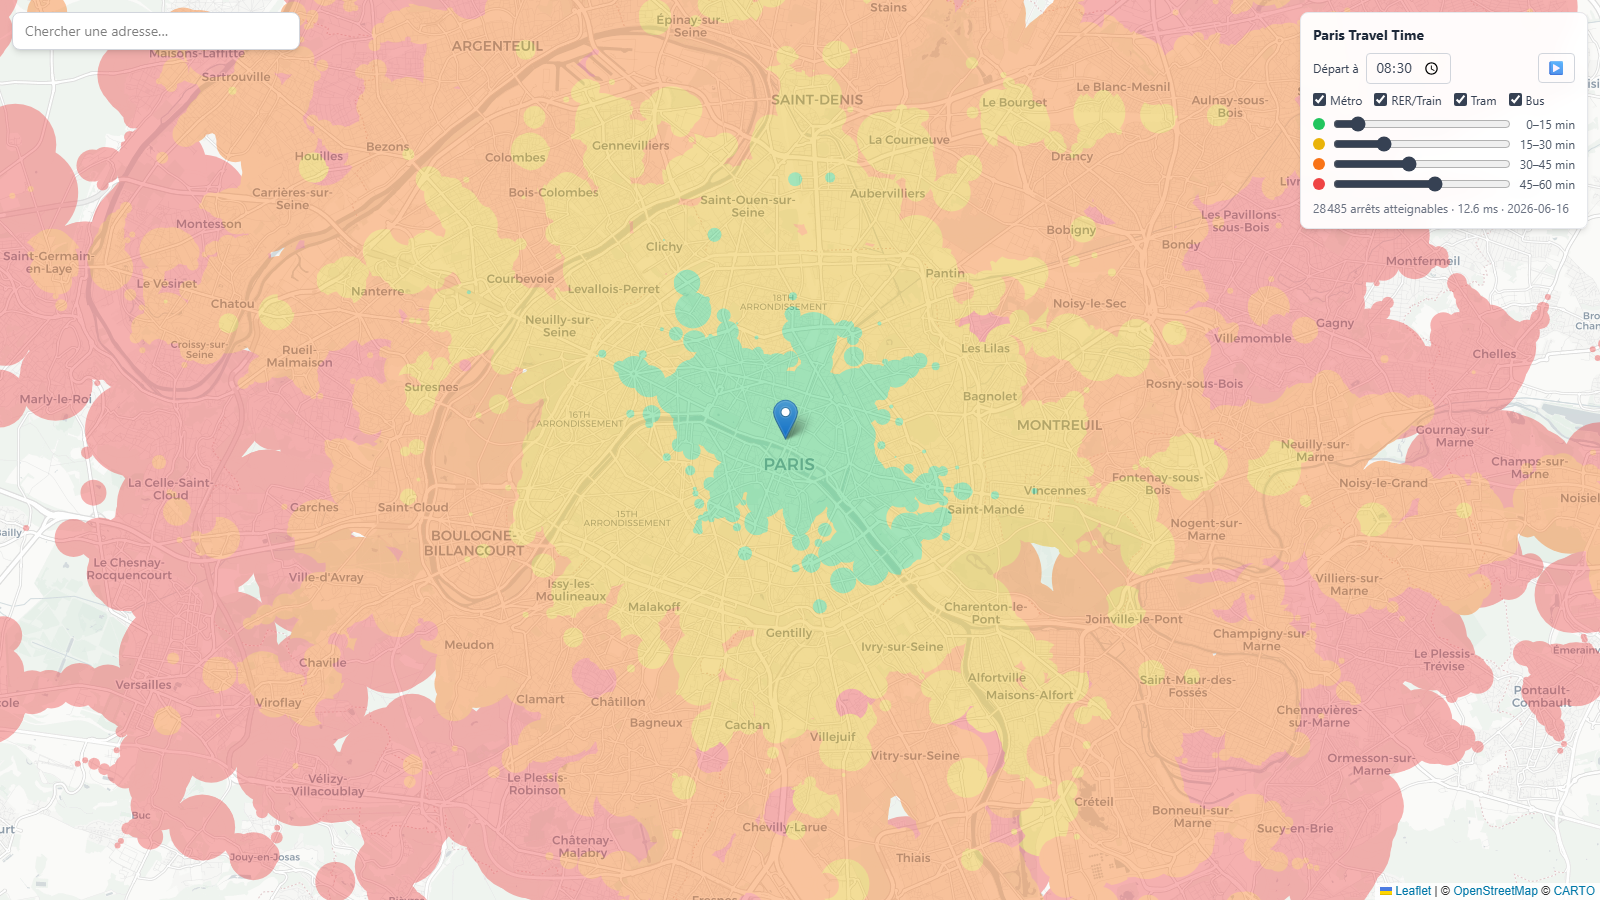
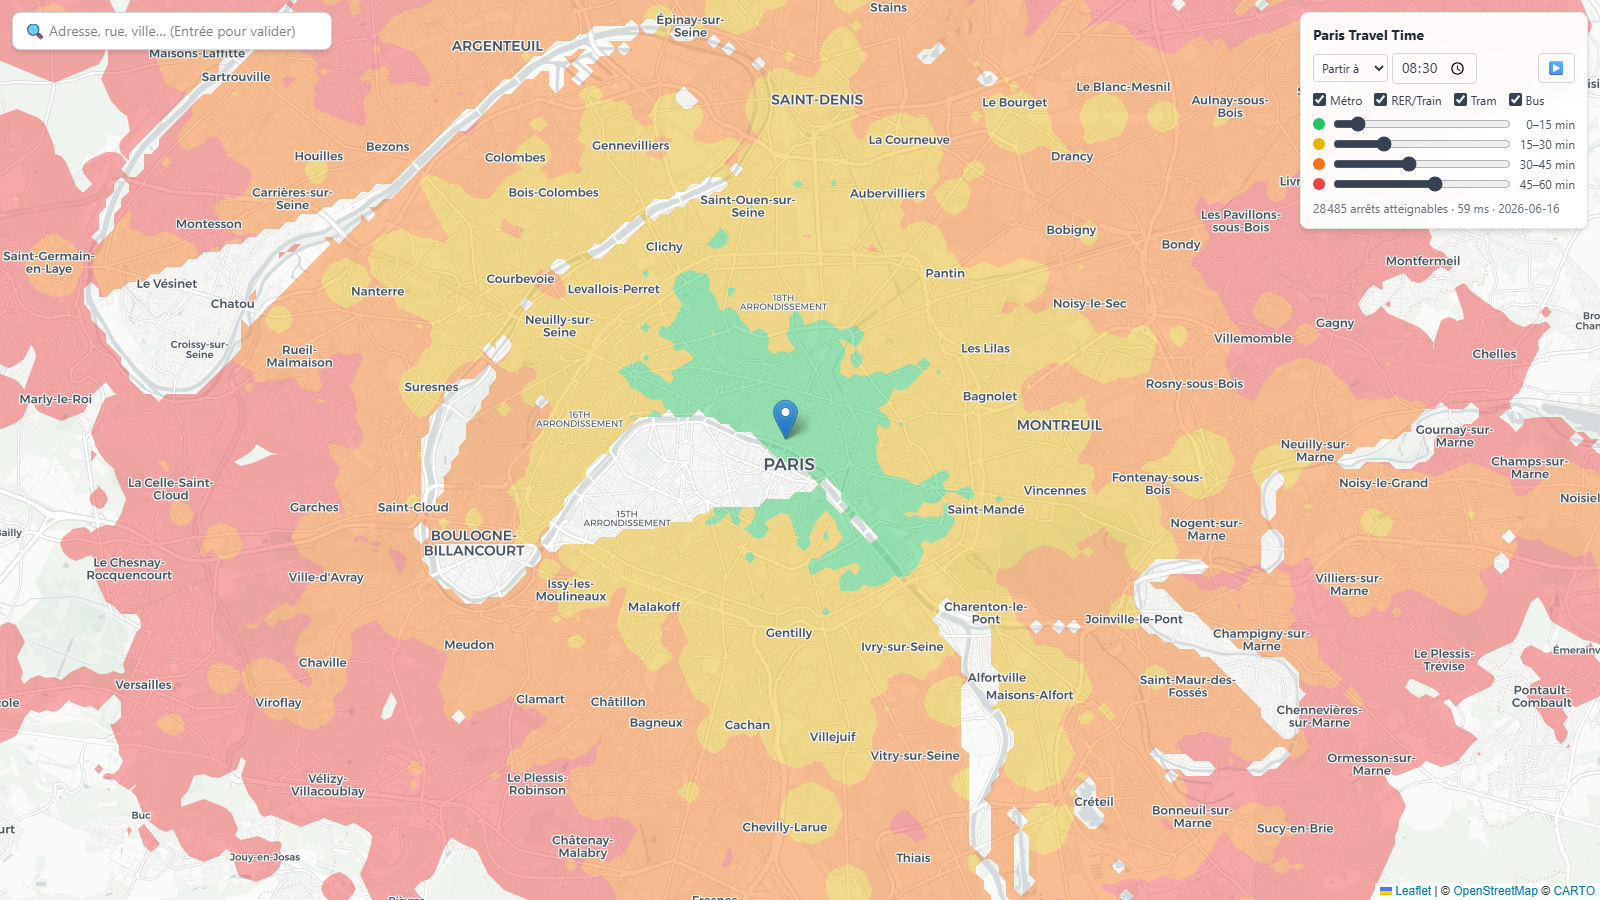
Refine the walkability rendering: water-only 30 m mask, labels above bands
The 60 m mask blocked landuse=railway, whose untagged street crossings
produced incomprehensible holes in dense areas: the mask is now water
only, at 30 m, with pedestrian tunnels carved alongside bridges and every
GTFS stop cell guaranteed walkable. Viewport sampling switched from
center-point (speckle at low zoom) to box-average via a summed-area
table, threshold 50%. The remaining 'random holes' turned out to be the
base map's gray building blocks showing through the translucent bands:
the base is now label-free with a separate label tile pane rendered above
the isochrones.

diff --git a/frontend/src/components/IsochronesLayer.tsx b/frontend/src/components/IsochronesLayer.tsx
@@ -46,7 +46,8 @@ export default function IsochronesLayer({
   useEffect(() => {
     if (!paneReady.current) {
       const pane = map.createPane('heatmap')
-      pane.style.opacity = '0.4'
+      pane.style.opacity = '0.45'
+      pane.style.zIndex = '350' // above base tiles, below the labels pane
       pane.style.pointerEvents = 'none'
       paneReady.current = true
     }
@@ -74,7 +75,14 @@ export default function IsochronesLayer({
   return null
 }
 
-/** Sample the walkability mask (bilinear-free nearest lookup) for a grid. */
+/**
+ * Sample the walkability mask for a viewport grid.
+ *
+ * A cell is blocked when LESS THAN HALF of its footprint is walkable
+ * (box average via the summed-area table). Center-point sampling caused
+ * speckle at low zoom: a pond under the cell center blocked a whole
+ * 300 m cell while its twin neighbour stayed open.
+ */
 function blockedForGrid(
   wm: Walkmask,
   W: number,
@@ -85,15 +93,26 @@ function blockedForGrid(
   mPerDegLon: number,
 ): Uint8Array {
   const blocked = new Uint8Array(W * H) // 0 = walkable
+  const w1 = wm.w + 1
+  const maskCellLat = (wm.north - wm.south) / wm.h
+  const maskCellLon = (wm.east - wm.west) / wm.w
+  const halfLat = Math.max(((cellM / 2) * 1) / M_PER_DEG_LAT, maskCellLat / 2)
+  const halfLon = Math.max(cellM / 2 / mPerDegLon, maskCellLon / 2)
   for (let y = 0; y < H; y++) {
     const lat = north - ((y + 0.5) * cellM) / M_PER_DEG_LAT
     if (lat < wm.south || lat > wm.north) continue // outside mask: walkable
-    const my = Math.min(wm.h - 1, Math.floor(((wm.north - lat) / (wm.north - wm.south)) * wm.h))
+    const my0 = Math.max(0, Math.floor(((wm.north - (lat + halfLat)) / (wm.north - wm.south)) * wm.h))
+    const my1 = Math.min(wm.h, Math.ceil(((wm.north - (lat - halfLat)) / (wm.north - wm.south)) * wm.h))
     for (let x = 0; x < W; x++) {
       const lon = west + ((x + 0.5) * cellM) / mPerDegLon
       if (lon < wm.west || lon > wm.east) continue
-      const mx = Math.min(wm.w - 1, Math.floor(((lon - wm.west) / (wm.east - wm.west)) * wm.w))
-      if (!wm.data[my * wm.w + mx]) blocked[y * W + x] = 1
+      const mx0 = Math.max(0, Math.floor(((lon - halfLon - wm.west) / (wm.east - wm.west)) * wm.w))
+      const mx1 = Math.min(wm.w, Math.ceil(((lon + halfLon - wm.west) / (wm.east - wm.west)) * wm.w))
+      const area = (my1 - my0) * (mx1 - mx0)
+      if (area <= 0) continue
+      const walkable =
+        wm.sat[my1 * w1 + mx1] - wm.sat[my0 * w1 + mx1] - wm.sat[my1 * w1 + mx0] + wm.sat[my0 * w1 + mx0]
+      if (walkable * 2 < area) blocked[y * W + x] = 1
     }
   }
   return blocked

diff --git a/frontend/src/lib/api.ts b/frontend/src/lib/api.ts
@@ -18,7 +18,18 @@ export async function fetchWalkmask(): Promise<Walkmask | null> {
   const n = j.w * j.h
   const data = new Uint8Array(n)
   for (let i = 0; i < n; i++) data[i] = (bytes[i >> 3] >> (7 - (i & 7))) & 1
-  return { w: j.w, h: j.h, south: j.south, west: j.west, north: j.north, east: j.east, data }
+  // summed-area table: walkable-fraction of any rectangle in O(1), used to
+  // sample the mask without aliasing when viewport cells are coarser
+  const w1 = j.w + 1
+  const sat = new Uint32Array(w1 * (j.h + 1))
+  for (let y = 0; y < j.h; y++) {
+    let row = 0
+    for (let x = 0; x < j.w; x++) {
+      row += data[y * j.w + x]
+      sat[(y + 1) * w1 + (x + 1)] = sat[y * w1 + (x + 1)] + row
+    }
+  }
+  return { w: j.w, h: j.h, south: j.south, west: j.west, north: j.north, east: j.east, data, sat }
 }
 
 export async function fetchStops(): Promise<StopsCatalog> {

diff --git a/frontend/src/components/MapView.tsx b/frontend/src/components/MapView.tsx
@@ -1,4 +1,4 @@
-import { MapContainer, TileLayer, useMapEvents } from 'react-leaflet'
+import { MapContainer, Pane, TileLayer, useMapEvents } from 'react-leaflet'
 import type { ReactNode } from 'react'
 import type { LatLng } from '../lib/types'
 
@@ -49,10 +49,16 @@ export default function MapView({
       className="h-full w-full"
       zoomControl={false}
     >
+      {/* base WITHOUT labels: building texture stays under the bands, while
+          street/place names render in a pane ABOVE them (crisp and readable,
+          and gray blocks no longer read as fake holes through the colors) */}
       <TileLayer
-        url="https://{s}.basemaps.cartocdn.com/light_all/{z}/{x}/{y}{r}.png"
+        url="https://{s}.basemaps.cartocdn.com/light_nolabels/{z}/{x}/{y}{r}.png"
         attribution='&copy; <a href="https://www.openstreetmap.org/copyright">OpenStreetMap</a> &copy; <a href="https://carto.com/attributions">CARTO</a>'
       />
+      <Pane name="labels" style={{ zIndex: 450, pointerEvents: 'none' }}>
+        <TileLayer url="https://{s}.basemaps.cartocdn.com/light_only_labels/{z}/{x}/{y}{r}.png" />
+      </Pane>
       <ClickHandler onClick={onMapClick} onContextMenu={onMapContextMenu} />
       {children}
     </MapContainer>

diff --git a/frontend/src/lib/types.ts b/frontend/src/lib/types.ts
@@ -57,4 +57,6 @@ export interface Walkmask {
   east: number
   /** unpacked bits, row-major, row 0 = north */
   data: Uint8Array
+  /** summed-area table of `data`, (w+1)*(h+1), for box-average sampling */
+  sat: Uint32Array
 }

diff --git a/backend/ingest/build_walkmask.py b/backend/ingest/build_walkmask.py
@@ -22,7 +22,7 @@ from PIL import Image, ImageDraw
 
 # south, west, north, east — covers the GTFS network's useful extent
 BBOX = (48.40, 1.60, 49.10, 3.20)
-CELL_M = 60.0
+CELL_M = 30.0
 MIN_WATER_M2 = 10_000  # ignore village ponds
 # full-IDF queries 504 on the main instance: fetch per tile, with fallbacks
 OVERPASS_SERVERS = [
@@ -35,6 +35,10 @@ TILES = 2  # split the bbox into TILES x TILES sub-queries
 OUT = Path(__file__).resolve().parent.parent / "assets" / "walkmask.npz"
 
 def water_query(bbox: tuple) -> str:
+    # water ONLY. An earlier version also blocked landuse=railway, but rail
+    # corridors are crossed by plenty of untagged street bridges and the
+    # result read as incomprehensible holes in the middle of neighborhoods.
+    # Water is the one barrier everyone understands.
     b = f"{bbox[0]},{bbox[1]},{bbox[2]},{bbox[3]}"
     return f"""
 [out:json][timeout:180];
@@ -43,18 +47,19 @@ def water_query(bbox: tuple) -> str:
   relation["natural"="water"]({b});
   way["waterway"="riverbank"]({b});
   relation["waterway"="riverbank"]({b});
-  way["landuse"="railway"]({b});
 );
 out geom;
 """
 
 
 def bridge_query(bbox: tuple) -> str:
+    # bridges cross water, tunnels cross rail land: both reopen the mask
     b = f"{bbox[0]},{bbox[1]},{bbox[2]},{bbox[3]}"
     return f"""
 [out:json][timeout:180];
 (
   way["bridge"]["highway"]["highway"!~"motorway|motorway_link|trunk|trunk_link"]["foot"!~"no"]({b});
+  way["tunnel"]["highway"]["highway"!~"motorway|motorway_link|trunk|trunk_link"]["foot"!~"no"]({b});
 );
 out geom;
 """
@@ -184,6 +189,21 @@ def main() -> None:
         if len(pts) >= 2:
             draw.line(pts, fill=1, width=2)
     print(f"  {len(bridge_elements):,} bridges carved")
+
+    # every GTFS stop must live on a walkable cell (platforms often sit in
+    # the middle of blocked railway land)
+    stops_pq = Path(__file__).resolve().parent.parent / "data" / "stops.parquet"
+    if stops_pq.exists():
+        import pyarrow.parquet as pq
+
+        stops = pq.read_table(stops_pq)
+        carved = 0
+        for lat, lon in zip(stops.column("lat").to_numpy(), stops.column("lon").to_numpy()):
+            if BBOX[0] <= lat <= BBOX[2] and BBOX[1] <= lon <= BBOX[3]:
+                x, y = grid.px(lat, lon)
+                draw.point((x, y), fill=1)
+                carved += 1
+        print(f"  {carved:,} stop cells carved")
 
     mask = np.asarray(img, dtype=np.uint8)
     walkable_pct = 100.0 * mask.mean()

diff --git a/README.md b/README.md
@@ -35,6 +35,10 @@ A few things I'm rather happy with:
 <img src="docs/features.png" alt="Meeting mode, mode filters and an itinerary popup" width="85%"/>
 
 *Meeting mode with two markers, buses disabled, itinerary on right-click.*
+
+<img src="docs/seine.png" alt="Isochrones stopping at the Seine, crossing on bridges" width="85%"/>
+
+*Zoomed in: the bands stop at the Seine and only cross it where a bridge exists.*
 </div>
 
 ## How it works